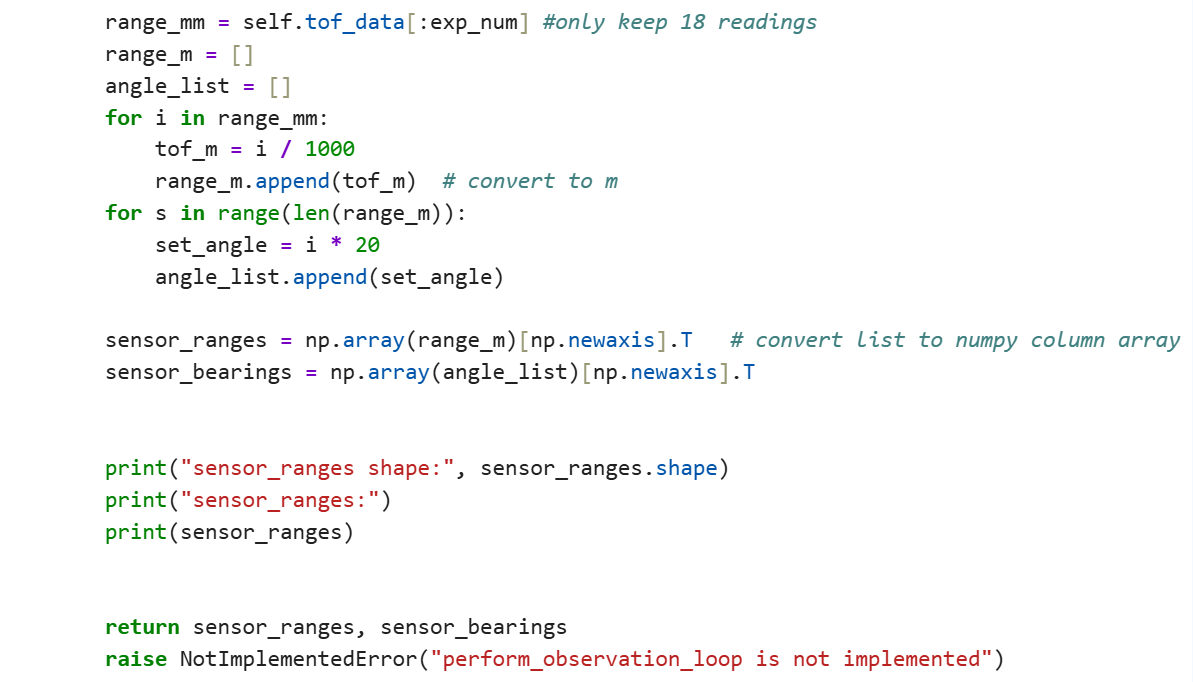
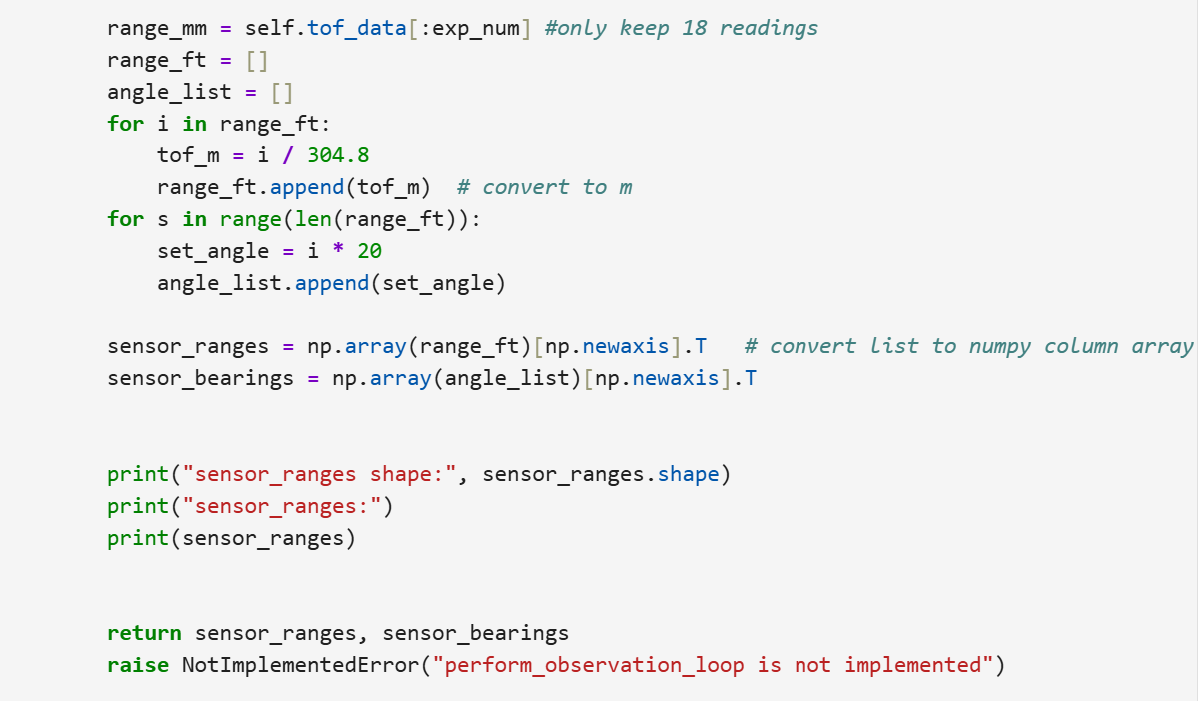
lab 11 errror update

diff --git a/labs/lab11.html b/labs/lab11.html
@@ -82,17 +82,34 @@ code {
         </p>
         
         <h2>Task Two: Bayes Filter on Robot</h2>
-        <p></p>
-
-        
+        <p>As provided code has already offered localization program which covers
+          bayes filter calculation, I was writing to make robot perform a 360-degree scan and
+          send ToF measurements back to python. The whole process includes commanding robot to rotate collecting
+          distance readings, converting them to required format and having them compared with
+          expected readings contained in localization code. 
+          </p>
         <img src="../images/lab11/ob_loop_1.png" alt="square graph" width="550">
         <img src="../images/lab11/ob_loop_2.png" alt="square graph" width="550">
-        <p>
+        <p> The code here basically is translated from lab 9. The function acts as the linkage
+          between sensor acquisition and probaility localization. It sends a command and 
+          starts the robot rotation motion 
+          to read distances across different orientations. Similarly, it checks if the number of
+          collection hits its range and waits for data ready to be collected at the same time. A timeout
+          section is added to prevent infinite waiting once robot cannot complete the 360-degree scan.
+          After receiving data, function converts distance measurments from millimeters to feet
+          and lists into numpy column arrays which match the input format for bayes filter update
+          step. <br>
+          Unfortunately, my robot cannot consistently collect 18 data while rotating 360 degrees. 
+          The potential reason is that TOF polling was interfered with motor motion. When collection
+          data gets compiled into list, data is not ready. Therefore, I failed to localize the robot
+           in the map. 
+
+
         </p>
 
 
-        <h2></h2>
-        <img src="../images/lab10/cc_code.png" alt="square graph" width="550">
+        
+        
         <p></p>
         
     
@@ -104,7 +121,9 @@ code {
 
 
       <h2>Reference </h2>
-       <p> 
+       <p> Thanks for Zoey Zhou, Michelle Yang and Selena to help me debug the robot rotation. 
+        I used ChatGPT to clarify some confusion regarding function <strong>perform_observation_loop  
+        </strong>.
       </p>
   </div>   
 </body>